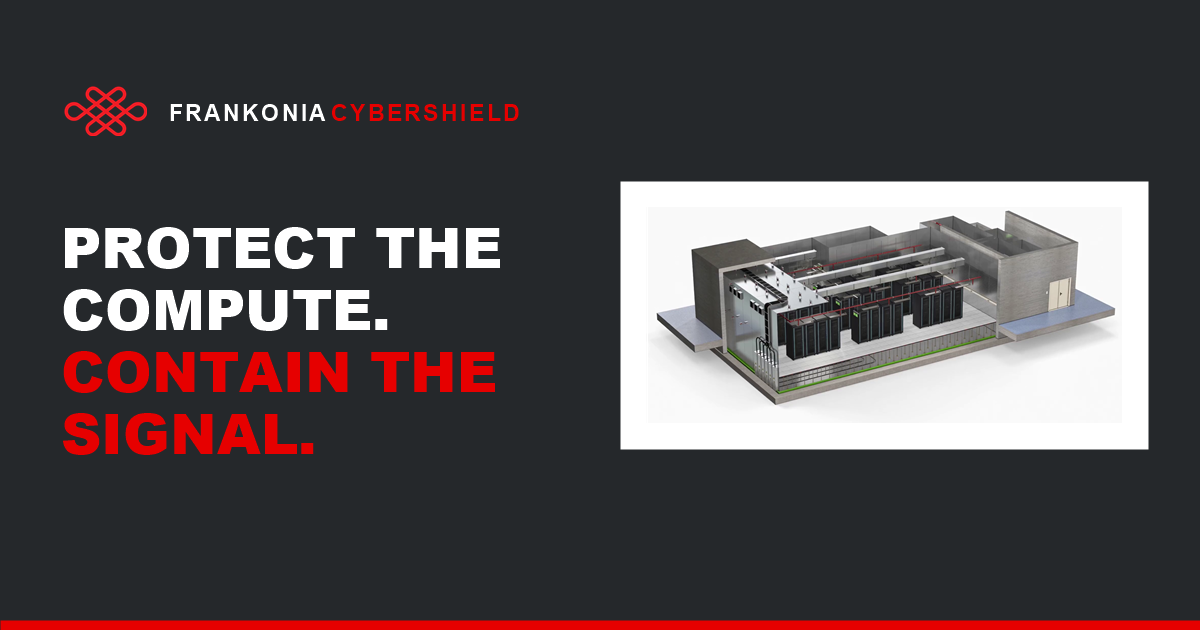
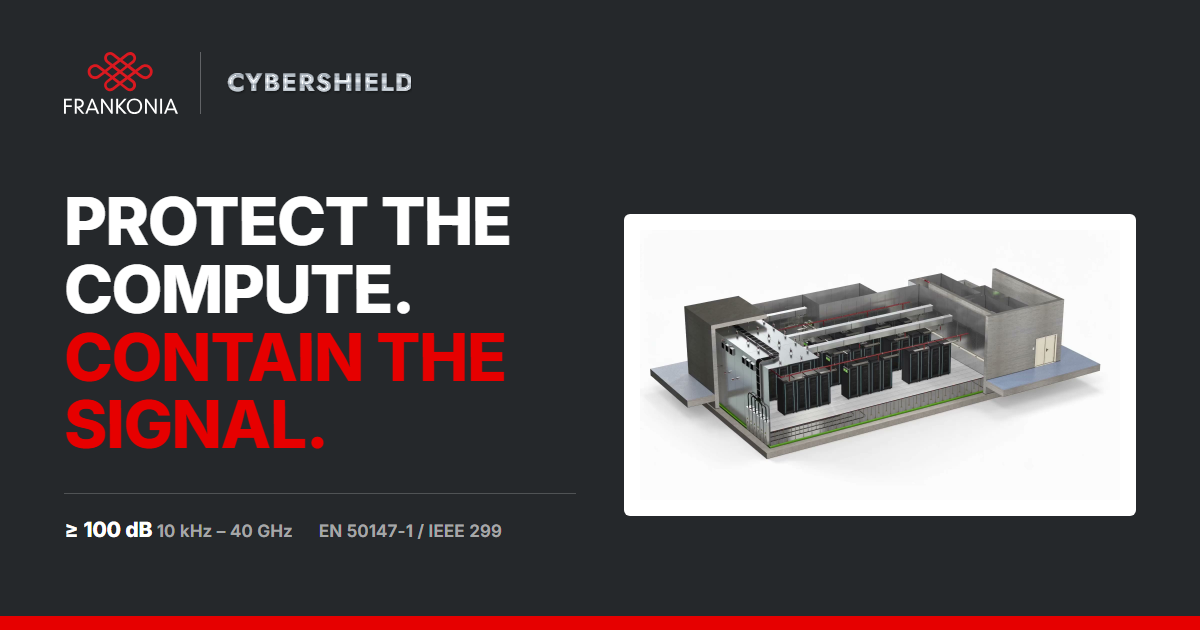
Rebuild the link preview image on the new brand lockup
The mark now sits above the FRANKONIA wordmark and CYBERSHIELD is the
cut-metal treatment used in the header, matching the live site. Adds the
attenuation envelope, and bumps the cache-busting version so social
platforms refetch.

diff --git a/app/site-metadata.ts b/app/site-metadata.ts
@@ -25,7 +25,7 @@ export function buildSiteMetadata(lang: Lang): Metadata {
   const canonical = `${siteOrigin}${route(langPath(lang))}`;
   // Social platforms cache preview images by URL, so the version bumps when
   // the artwork changes.
-  const ogImage = `${siteOrigin}${asset("/og.png")}?v=2`;
+  const ogImage = `${siteOrigin}${asset("/og.png")}?v=3`;
 
   return {
     title,
